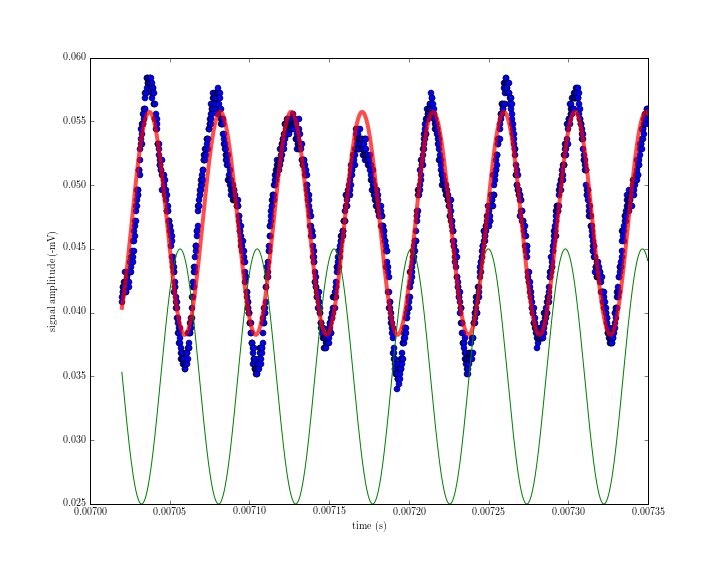
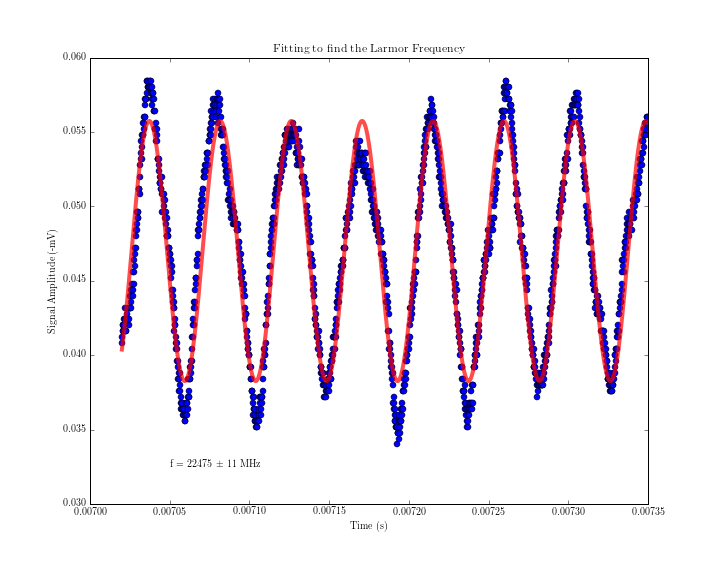
again, hope it still works ok

diff --git a/Optical_Pumping/data_processing.py b/Optical_Pumping/data_processing.py
@@ -38,10 +38,12 @@ def larmor_fit(dataset, freq):
 
     plt.figure(figsize = (10,8))
     plt.plot(sel_xdata, sel_ydata, 'o')
-    plt.plot(sel_xdata, yuFit, 'g')
+    #plt.plot(sel_xdata, yuFit, 'g')
     plt.plot(sel_xdata, yFit, 'r', lw = 4, alpha = .7)
-    plt.xlabel("time (s)")
-    plt.ylabel("signal amplitude (-mV)")
+    plt.xlabel("Time (s)")
+    plt.ylabel("Signal Amplitude (-mV)")
+    plt.title("Fitting to find the Larmor Frequency")
+    plt.text(0.00705, 0.0325, "f = %.0f $\pm$ %.0f MHz" % (popt[1]/(2*np.pi), np.sqrt(pcov[1,1])/(2*np.pi)))
     plt.savefig("plots/({}.{}).png".format(dset[0].split("/")[1], dset[1]))
 
     with open('data/fitparms_{}.{}.tsv'.format(dset[0].split("/")[1], dset[1]), 'w+')\
@@ -72,7 +74,7 @@ def gyromagnetic_ratio_fit():
         return A*x + B
 
     popt, pcov = curve_fit(lin, Bs, freqs, p0 = [87e6, .04])
-    yFit = np.poly1d(popt)
+    yFit = lin(Bs, *popt)
 
     parms_gamma = []
     parms_omega0 = []
@@ -102,22 +104,26 @@ def gyromagnetic_ratio_fit():
         parms_gamma.append(tempg)
         parms_omega0.append(tempo)
 
-    print yFit
-    print np.average(parms_gamma), np.std(parms_gamma)
+    #print yFit
+    #print np.average(parms_gamma), np.std(parms_gamma)
 
     devg = np.std(parms_gamma)
     dev0 = np.std(parms_omega0)
 
+    chi_squared = np.sum((freqs - yFit)**2/(df)**2)/(len(freqs))
+
     plt.figure(figsize = (10, 10))
     plt.errorbar(Bs, freqs, xerr = Bs*dB, yerr = df, fmt = 'o')
-    plt.plot(Bs, yFit(Bs), alpha = .6)
-    plt.text(Bs[0], 1.4e5, "$\omega = \gamma B + \omega_0$\n \
-                              $\gamma$ = %.2f $\pm$ %.2f \, MHz/T\n \
-                              $\omega_0$ = %.3f $\pm$ %.3f \, MHz" % (popt[0]*1e-6, devg*1e-6, popt[1]*1e-6, dev0*1e-6))
+    plt.plot(Bs, yFit, alpha = .6)
+    plt.text(Bs[0], 2.2e4, "$\omega = \gamma B + \omega_0$\n \
+                              $\gamma$ = %.0f $\pm$ %.0f \, MHz/T\n \
+                              $\omega_0$ = %.5f $\pm$ %.5f \, MHz \n \
+                              $\chi^2/n = %.2f" % ((popt[0]*1e-6)/(2*np.pi), (devg*1e-6)/(2*np.pi), (popt[1]*1e-6)/(2*np.pi), (dev0*1e-6)/(2*np.pi), chi_squared))
     plt.xlabel("Vertical B Field (T)")
     plt.ylabel("Frequency (Hz)")
+    plt.title("Finding the Gyromagnetic Ratio")
     plt.savefig("plots/gyromagnetic_ratio_fit.png")
-    plt.show()
+    #plt.show()
 
 def earth_field_fit():
     data = np.genfromtxt("data/earth_B_field_data.csv")
@@ -211,8 +217,8 @@ def plot_reduced_trace(dataset):
 
 if __name__ == '__main__':
 
-    #larmor_fit("data/larmor_y0.020A.tsv", 80)
-    gyromagnetic_ratio_fit()
-    #earth_field_fit()
+    #larmor_fit("data/larmor_y0.055A.tsv", 130)
+    #gyromagnetic_ratio_fit()
+    earth_field_fit()
     #plot_trace("data/s4_3_scope_trace.tsv")
     #plot_reduced_trace("data/s4_4_scope_trace.tsv")

diff --git a/Optical_Pumping/report/report.tex b/Optical_Pumping/report/report.tex
@@ -186,7 +186,9 @@
     waiting on the fit (!!!)
 
   \subsection{Larmor Precession}
-    
+    The first item of interest for this report in particular
+
+    the plots for this are done - just need a good one of the sine wave
 
 
 \section{Conclusion}%%%%%%%%%%%%%%%%%%%%%%%%%%%%%%%%%%%%%%%%%%%%%%%%%%%%%%%%%%%
